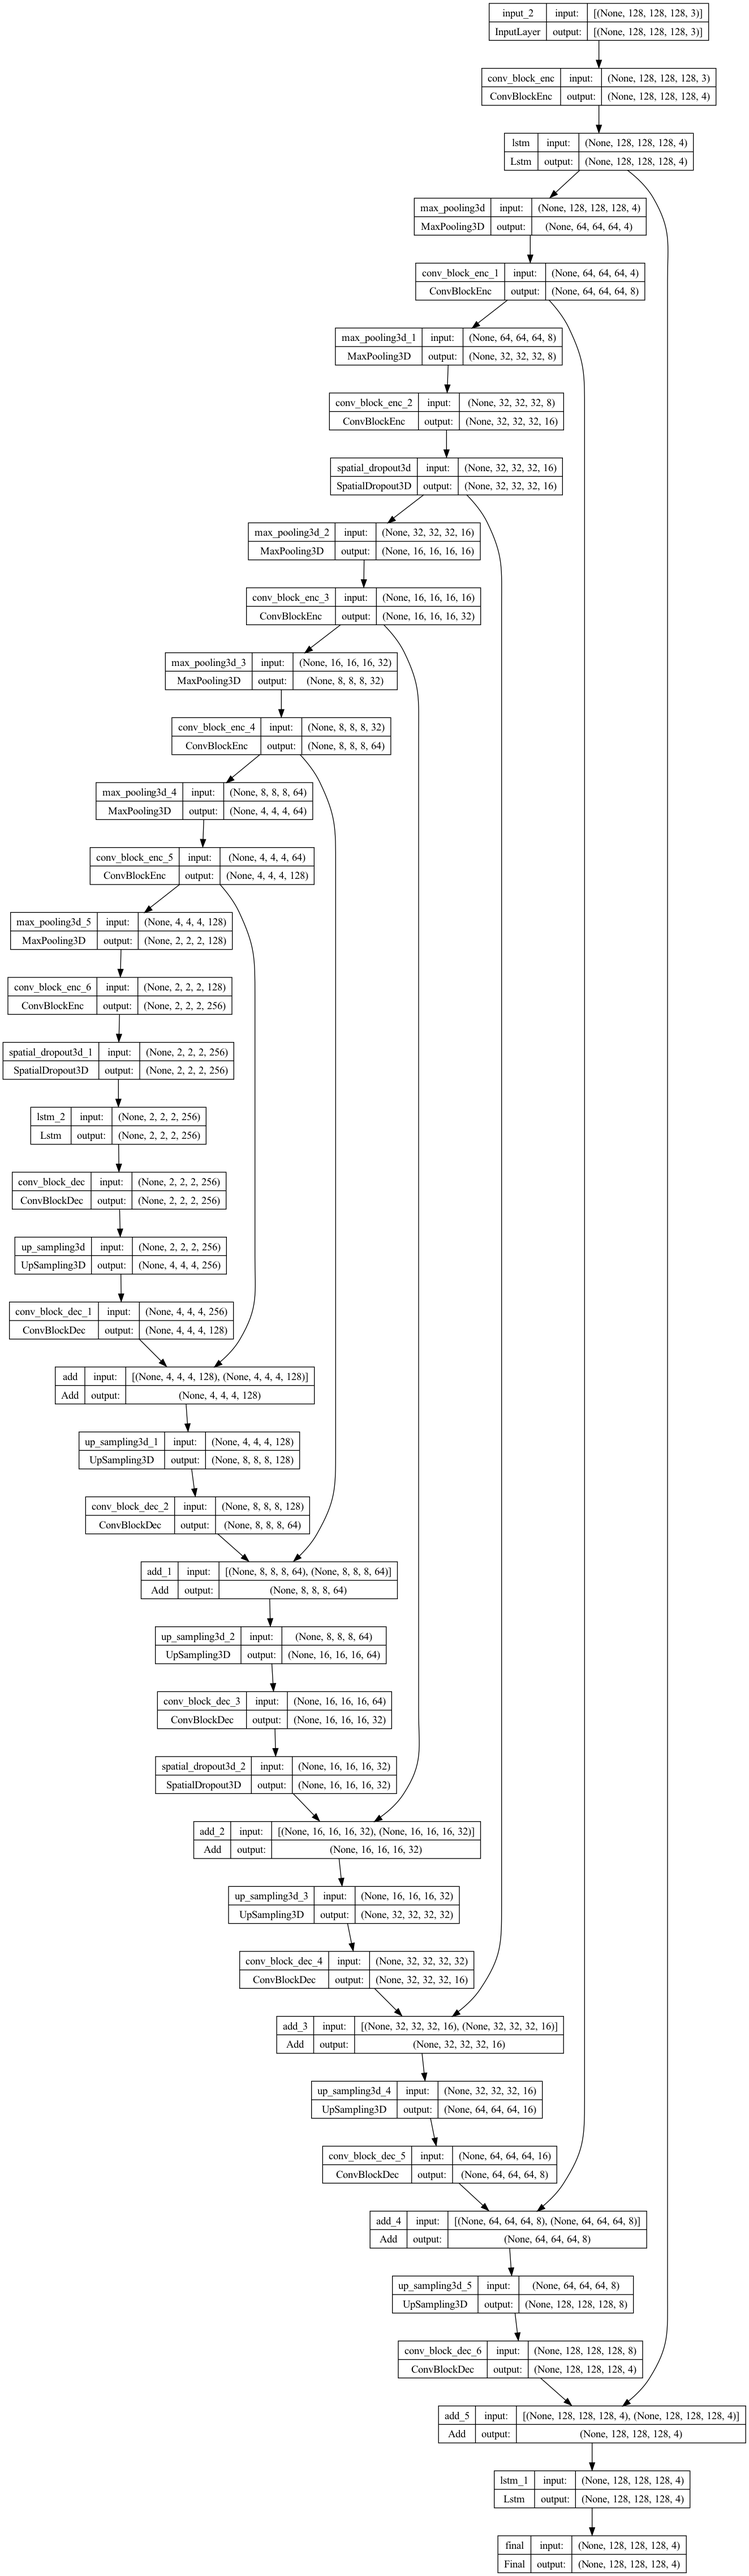
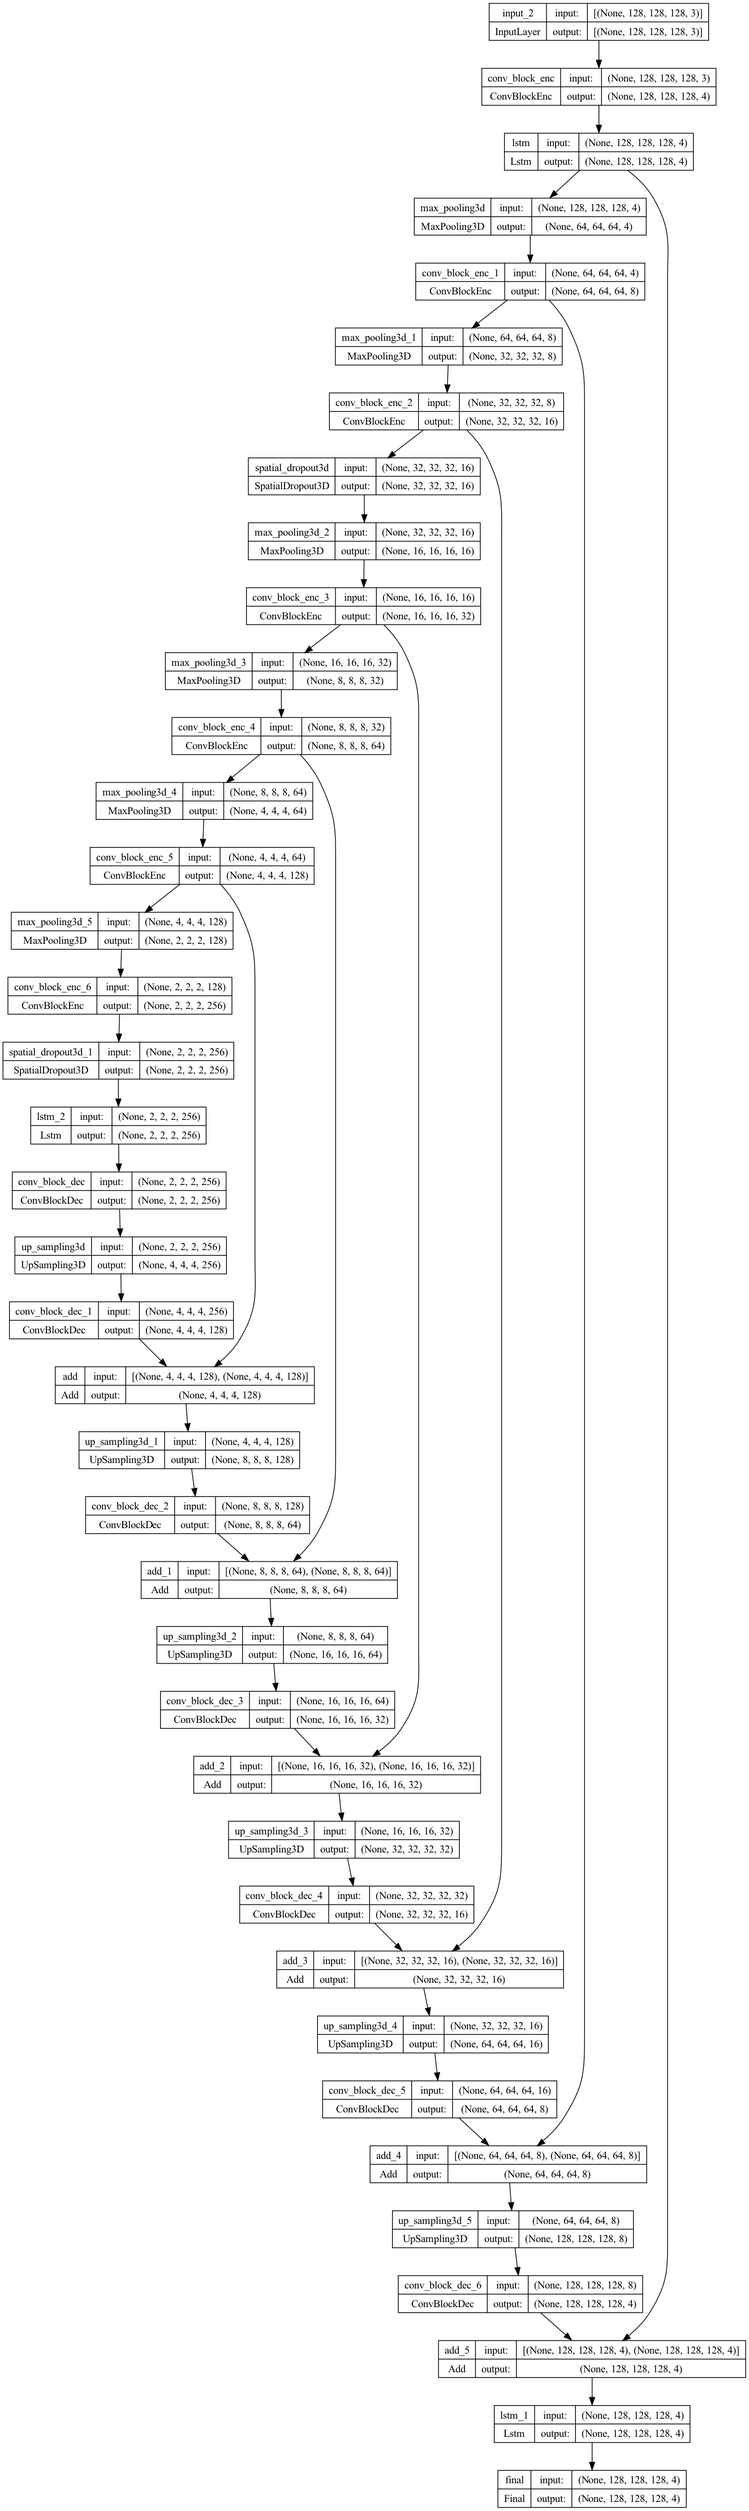
spatial dropout changes

Changed region(s): [[0.0, 0.0, 0.9909, 1.0]]

diff --git a/models.py b/models.py
@@ -77,8 +77,8 @@ class UnetLSTM(tf.keras.Model):
         x31 = self.convenc_2(x21_down)
 
         # handle early feature correlation using dropout
-        x31 = self.dp1(x31)
-        x31_down = self.maxpool3(x31)
+        x31_reg = self.dp1(x31)
+        x31_down = self.maxpool3(x31_reg)
 
         x41 = self.convenc_3(x31_down)
         x41_down = self.maxpool4(x41)
@@ -92,10 +92,10 @@ class UnetLSTM(tf.keras.Model):
         x71 = self.convenc_6(x61_down)
 
         # regularization
-        x71 = self.dp2(x71)
+        x71_reg = self.dp2(x71)
 
         # embeded lstm
-        xlstm = self.lstm_down(x71)
+        xlstm = self.lstm_down(x71_reg)
 
         # decoding step and bring in the skip connections
         xlstm = self.dconv_0(xlstm)
@@ -110,7 +110,6 @@ class UnetLSTM(tf.keras.Model):
         x52_up = self.upsample3(x52)
 
         x42 = self.dconv_3(x52_up)
-        x42 = self.dp3(x42)
 
         x42 = self.add3([x41, x42])
         x42_up = self.upsample4(x42)
